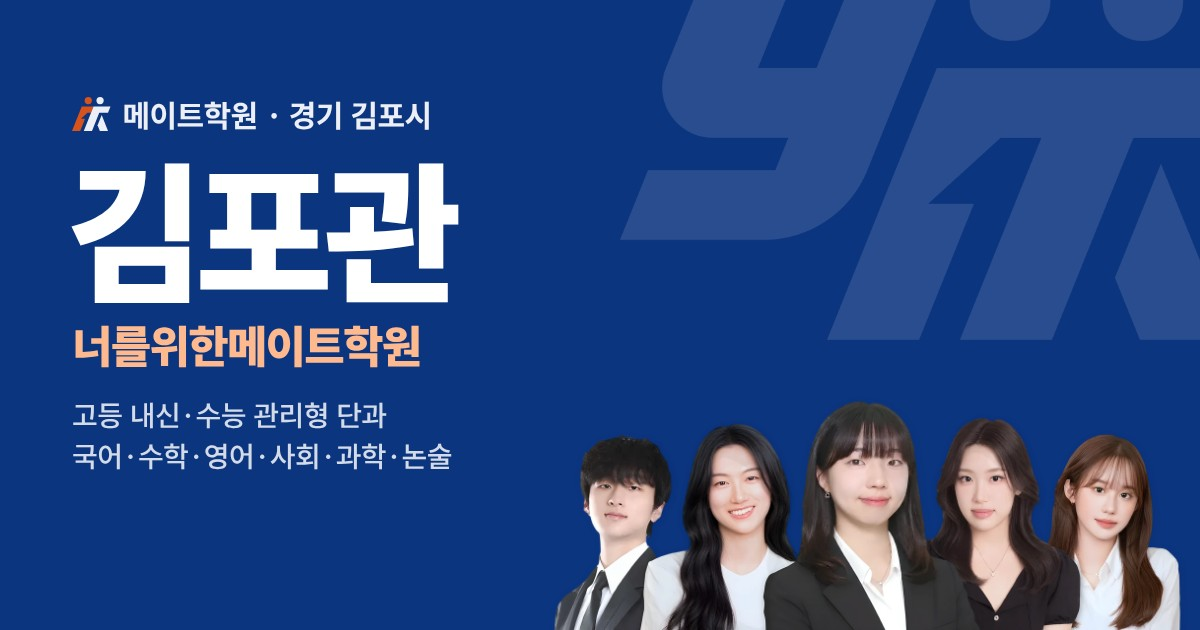
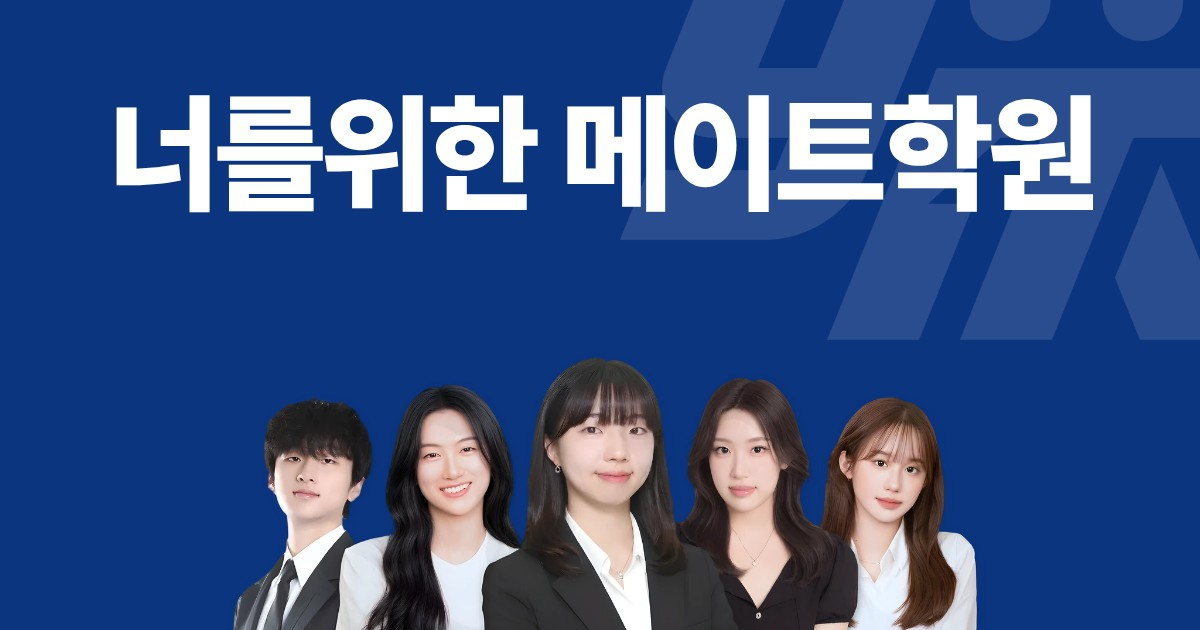
공유 미리보기 이미지 2차 — 메인은 메이트학원만, 목동·김포는 상호만, 메이트랩·올케어는 이름 강조 [skip netlify]
Claude-Session: https://claude.ai/code/session_011njH4VzCkxzx3bUzE4QUqt

diff --git a/allcare.html b/allcare.html
@@ -12,10 +12,10 @@
 <meta property="og:url" content="https://mate4u.netlify.app/allcare"/>
 <meta property="og:title" content="메이트 올케어 프로그램 | 메이트학원"/>
 <meta property="og:description" content="과목은 셋, 전략은 하나. 국어·수학·영어 세 과목 수강생을 위한 담임 관리 프로그램"/>
-<meta property="og:image" content="https://mate4u.netlify.app/img/og-allcare.jpg?v=1116"/>
+<meta property="og:image" content="https://mate4u.netlify.app/img/og-allcare.jpg?v=1116b"/>
 <meta property="og:image:width" content="1200"/>
 <meta property="og:image:height" content="630"/>
-<meta property="og:image:alt" content="메이트 올케어 프로그램 — 과목은 셋, 전략은 하나."/>
+<meta property="og:image:alt" content="메이트 올케어 — 과목은 셋, 전략은 하나."/>
 <meta property="og:locale" content="ko_KR"/>
 <meta name="twitter:card" content="summary_large_image"/>
 <meta name="description" content="메이트학원 메이트 올케어 — 국어·수학·영어 세 과목 수강생을 위한 담임 관리 프로그램"/>

diff --git a/index.html b/index.html
@@ -12,10 +12,10 @@
 <meta property="og:url" content="https://mate4u.netlify.app/"/>
 <meta property="og:title" content="메이트학원 | 고등 내신·수능·논술 학원"/>
 <meta property="og:description" content="너와 함께, 정상으로! 목동관 · 김포관 · 메이트랩 · 메이트 올케어 · YouTube 채널"/>
-<meta property="og:image" content="https://mate4u.netlify.app/img/og-main.jpg?v=1116"/>
+<meta property="og:image" content="https://mate4u.netlify.app/img/og-main.jpg?v=1116b"/>
 <meta property="og:image:width" content="1200"/>
 <meta property="og:image:height" content="630"/>
-<meta property="og:image:alt" content="메이트학원 — 목동관 · 김포관"/>
+<meta property="og:image:alt" content="메이트학원"/>
 <meta property="og:locale" content="ko_KR"/>
 <meta name="twitter:card" content="summary_large_image"/>
 <meta name="description" content="메이트학원 — 고등 내신·수능·논술 학원 · 목동관 · 김포관 · 메이트랩 · 메이트 올케어 · YouTube 채널"/>

diff --git a/matelab.html b/matelab.html
@@ -12,7 +12,7 @@
 <meta property="og:url" content="https://mate4u.netlify.app/matelab"/>
 <meta property="og:title" content="메이트랩 | 메이트학원"/>
 <meta property="og:description" content="메이트학원 학습콘텐츠연구소 — 국어·영어·논술 자체 교재와 메이트랩 학습 웹"/>
-<meta property="og:image" content="https://mate4u.netlify.app/img/og-matelab.jpg?v=1116"/>
+<meta property="og:image" content="https://mate4u.netlify.app/img/og-matelab.jpg?v=1116b"/>
 <meta property="og:image:width" content="1200"/>
 <meta property="og:image:height" content="630"/>
 <meta property="og:image:alt" content="메이트랩 — 메이트학원 학습콘텐츠연구소"/>

diff --git a/gimpo.html b/gimpo.html
@@ -13,7 +13,7 @@
 <meta property="og:url" content="https://mate4u.netlify.app/gimpo"/>
 <meta property="og:title" content="너를위한 메이트학원 | 김포관"/>
 <meta property="og:description" content="김포 고등 내신·수능 관리형 단과 · 국어·수학·영어·사회·과학·논술 · 031-8049-0716"/>
-<meta property="og:image" content="https://mate4u.netlify.app/img/og-gimpo.jpg?v=1116"/>
+<meta property="og:image" content="https://mate4u.netlify.app/img/og-gimpo.jpg?v=1116b"/>
 <meta property="og:image:width" content="1200"/>
 <meta property="og:image:height" content="630"/>
 <meta property="og:image:alt" content="너를위한 메이트학원 김포관"/>

diff --git a/mokdong.html b/mokdong.html
@@ -13,7 +13,7 @@
 <meta property="og:url" content="https://mate4u.netlify.app/mokdong"/>
 <meta property="og:title" content="에듀메이트학원 | 목동관"/>
 <meta property="og:description" content="목동 고등 내신·수능 관리형 단과 · 국어·수학·영어·사회·과학·논술 · 02-6736-9505"/>
-<meta property="og:image" content="https://mate4u.netlify.app/img/og-mokdong.jpg?v=1116"/>
+<meta property="og:image" content="https://mate4u.netlify.app/img/og-mokdong.jpg?v=1116b"/>
 <meta property="og:image:width" content="1200"/>
 <meta property="og:image:height" content="630"/>
 <meta property="og:image:alt" content="에듀메이트학원 목동관"/>
